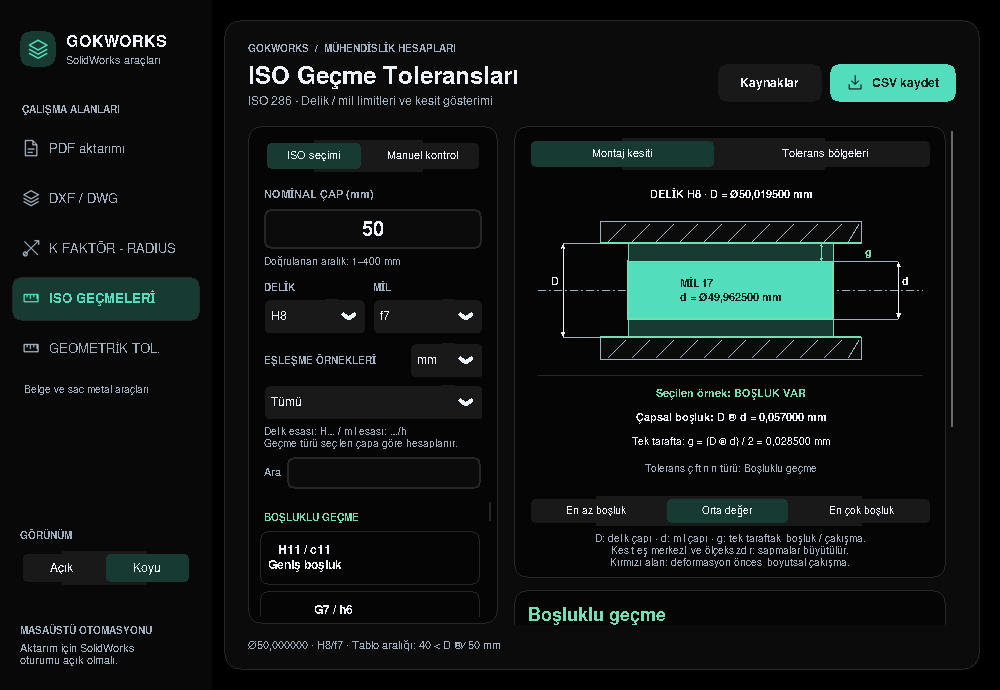
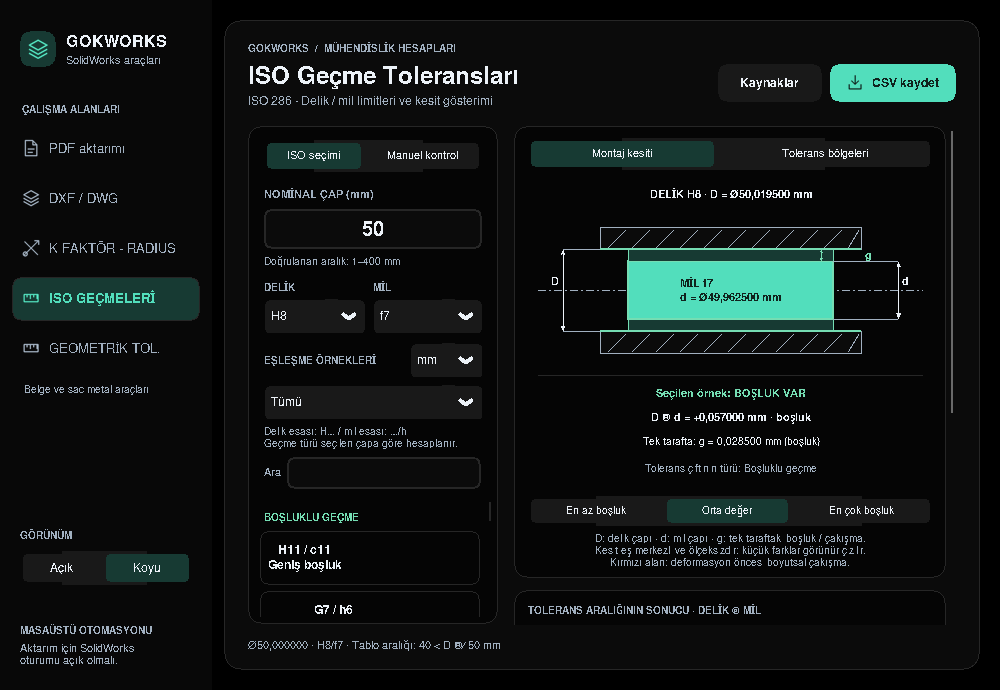
Keep positive ISO clearances visible and show signed differences

diff --git a/tests/test_iso_tolerance_audit.py b/tests/test_iso_tolerance_audit.py
@@ -1,0 +1,147 @@
+"""Independent interval arithmetic and positive/negative clearance GUI audit."""
+
+import csv
+from fractions import Fraction
+from itertools import product
+import json
+import os
+from pathlib import Path
+import unittest
+from unittest.mock import patch
+
+import test_export_window as fixtures
+from iso_fits import rules
+from iso_fits.manual import calculate_manual
+from iso_fits.window import SAMPLES
+
+
+class ToleranceArithmeticAuditTests(unittest.TestCase):
+    def test_every_iso_pair_at_boundaries_and_just_above_with_fraction_oracle(self):
+        table = json.loads((Path(__file__).parents[1]/'iso_fits/tables.json').read_text())
+        sizes = {Fraction(1), Fraction(400)}
+        for bound in table['bounds_mm']:
+            sizes.add(Fraction(bound))
+            if bound < 400:
+                sizes.add(Fraction(bound)+Fraction(1, 1000000))
+        for size, hole, shaft in product(sorted(sizes), table['holes'], table['shafts']):
+            index = sum(Fraction(bound) < size for bound in table['bounds_mm'])
+            hu, hl = table['classes'][hole][index]
+            su, sl = table['classes'][shaft][index]
+            D0, D1 = size+Fraction(hl, 1000000), size+Fraction(hu, 1000000)
+            d0, d1 = size+Fraction(sl, 1000000), size+Fraction(su, 1000000)
+            fit = rules.calculate(str(float(size)), hole, shaft)
+            expected = 'clearance' if D0 >= d1 else 'interference' if D1 <= d0 else 'transition'
+            self.assertEqual(fit.kind, expected, (size, hole, shaft))
+            self.assertEqual(Fraction(fit.minimum_clearance_nm, 1000000), D0-d1)
+            self.assertEqual(Fraction(fit.maximum_clearance_nm, 1000000), D1-d0)
+            for sample, pair in zip(SAMPLES, ((D0, d1), ((D0+D1)/2, (d0+d1)/2), (D1, d0))):
+                self.assertEqual(tuple(Fraction(str(v)) for v in fit.sample(sample)), pair)
+
+    def test_manual_interval_grid_with_signed_raw_input_oracle(self):
+        values = ('-0.05', '-0.02', '0', '0.02', '0.05')
+        for a, b, c, d in product(values, repeat=4):
+            if Fraction(a) > Fraction(b) or Fraction(c) > Fraction(d):
+                continue
+            fit = calculate_manual('50', a, b, c, d)
+            minimum, maximum = Fraction(a)-Fraction(d), Fraction(b)-Fraction(c)
+            expected = 'clearance' if minimum >= 0 else 'interference' if maximum <= 0 else 'transition'
+            self.assertEqual(fit.kind, expected, (a, b, c, d))
+            self.assertEqual(Fraction(fit.minimum_clearance_nm, 1000000), minimum)
+            self.assertEqual(Fraction(fit.maximum_clearance_nm, 1000000), maximum)
+        with self.assertRaises(ValueError):
+            calculate_manual('50', '0', '0.02%', '0', '0')
+
+
+@unittest.skipUnless(os.name == 'nt' or os.environ.get('DISPLAY'), 'GUI requires a display')
+class ToleranceGuiAuditTests(unittest.TestCase):
+    setUp = fixtures.WindowTests.setUp
+    close_app = fixtures.WindowTests.close_app
+
+    def manual(self, lower_hole, upper_hole, lower_shaft, upper_shaft):
+        self.app._switch_mode('iso_fits')
+        self.app.iso_state['method'].set('Manuel kontrol')
+        self.app._set_manual_inputs(list(zip(('hole_lower', 'hole_upper', 'shaft_lower', 'shaft_upper'),
+                                             (lower_hole, upper_hole, lower_shaft, upper_shaft))))
+        self.app.update()
+        return self.app.iso_widgets['canvas']
+
+    def text(self, tag):
+        canvas = self.app.iso_widgets['canvas']
+        return canvas.itemcget(canvas.find_withtag(tag)[0], 'text')
+
+    def test_positive_twenty_micron_clearance_never_disappears_with_common_offset(self):
+        coordinates = []
+        for hole, shaft in (('0.02', '0'), ('2.02', '2'), ('20.02', '20')):
+            canvas = self.manual(hole, hole, shaft, shaft)
+            self.assertEqual(self.app.iso_result.kind, 'clearance')
+            self.assertEqual(self.app.iso_widgets['kind'].cget('text'), 'Boşluklu geçme')
+            for sample in SAMPLES:
+                self.app.iso_state['sample'].set(sample)
+                self.assertIn('BOŞLUK VAR', self.text('sample_state'))
+                self.assertIn('D − d = +0,020000 mm', self.text('diametral_result'))
+                self.assertIn('g = 0,010000 mm (boşluk)', self.text('radial_result'))
+                self.assertEqual(len(canvas.find_withtag('clearance')), 2)
+                self.assertFalse(canvas.find_withtag('overlap'))
+                radial = canvas.coords(canvas.find_withtag('radial_dimension')[0])
+                self.assertGreaterEqual(radial[3]-radial[1], 6)
+            coordinates.append(canvas.coords(canvas.find_withtag('radial_dimension')[0])[1::2])
+        self.assertEqual(coordinates[0], coordinates[1])
+        self.assertEqual(coordinates[0], coordinates[2])
+
+    def test_twenty_micron_interference_has_negative_signed_difference(self):
+        canvas = self.manual('2', '2', '2.02', '2.02')
+        self.assertEqual(self.app.iso_widgets['kind'].cget('text'), 'Sıkı geçme')
+        for sample in SAMPLES:
+            self.app.iso_state['sample'].set(sample)
+            self.assertIn('SIKILIK VAR', self.text('sample_state'))
+            self.assertIn('D − d = -0,020000 mm', self.text('diametral_result'))
+            self.assertFalse(canvas.find_withtag('clearance'))
+            self.assertEqual(len(canvas.find_withtag('overlap')), 2)
+        self.assertIn('Cmin = -0,020000 mm', self.app.iso_widgets['explanation'].cget('text'))
+        self.assertIn('Cmax = -0,020000 mm', self.app.iso_widgets['explanation'].cget('text'))
+
+    def test_unilateral_example_section_card_csv_and_clipboard_agree(self):
+        self.manual('0', '+0,02', '-0,02', '0')
+        output = self.root/'audit.csv'
+        for sample, expected in zip(SAMPLES, ('+0,000000', '+0,020000', '+0,040000')):
+            self.app.iso_state['sample'].set(sample)
+            rows = dict(self.app._iso_report_rows())
+            self.assertEqual(rows['Geçme türü'], 'Boşluklu geçme')
+            self.assertEqual(rows['Örnek delik − mil (mm)'], expected)
+            self.app._copy_iso_result()
+            self.assertIn('Örnek delik − mil (mm): '+expected, self.app.clipboard_get())
+            with patch('iso_fits.window.filedialog.asksaveasfilename', return_value=str(output)):
+                self.app._save_iso_report()
+            with output.open(encoding='utf-8-sig', newline='') as stream:
+                csv_rows = dict(list(csv.reader(stream, delimiter=';'))[1:])
+            self.assertEqual(csv_rows, rows)
+        self.assertEqual(self.app.iso_widgets['minimum'].cget('text'), '+0,000000 mm')
+        self.assertEqual(self.app.iso_widgets['maximum'].cget('text'), '+0,040000 mm')
+
+    def test_nearest_transition_reference_cannot_replace_positive_actual_clearance(self):
+        self.manual('-.023', '-.023', '-.026', '-.026')
+        self.assertEqual(self.app.iso_widgets['kind'].cget('text'), 'Boşluklu geçme')
+        self.assertIn('BOŞLUK VAR', self.text('sample_state'))
+        text = self.app.iso_widgets['compatibility_text'].cget('text')
+        self.assertTrue(text.startswith('Girilen limitlerin sonucu: Boşluklu geçme.'))
+        self.assertIn('Referansın türü: Ara geçme', text)
+        self.assertIn('girilen ölçülerin türünden farklı', text)
+        self.app.iso_state['target'].set('Sıkı / pres')
+        self.assertEqual(self.app.iso_result.kind, 'clearance')
+        self.assertIn('uygun değil', self.app.iso_widgets['compatibility_title'].cget('text'))
+
+    def test_transition_positive_twenty_micron_sample_remains_a_positive_clearance(self):
+        canvas = self.manual('-0.02', '+0.02', '0', '0')
+        self.assertEqual(self.app.iso_widgets['kind'].cget('text'), 'Ara geçme')
+        for sample, value, state in zip(SAMPLES, ('-0,020000', '+0,000000', '+0,020000'),
+                                        ('SIKILIK VAR', 'SINIRDA TEMAS', 'BOŞLUK VAR')):
+            self.app.iso_state['sample'].set(sample)
+            self.assertIn(state, self.text('sample_state'))
+            self.assertIn('Ara geçme', self.text('fit_kind'))
+            self.assertEqual(dict(self.app._iso_report_rows())['Örnek delik − mil (mm)'], value)
+        self.assertEqual(len(canvas.find_withtag('clearance')), 2)
+        self.assertFalse(canvas.find_withtag('overlap'))
+
+
+if __name__ == '__main__':
+    unittest.main()

diff --git a/iso_fits/window.py b/iso_fits/window.py
@@ -187,21 +187,23 @@ class IsoFitsView:
         self.iso_widgets['sample'] = samples
         self.iso_widgets['section_help'] = self._label(diagram,
             'D: delik çapı · d: mil çapı · g: tek taraftaki boşluk / çakışma.\n'
-            'Kesit eş merkezli ve ölçeksizdir; sapmalar büyütülür.\n'
+            'Kesit eş merkezli ve ölçeksizdir; küçük farklar görünür çizilir.\n'
             'Kırmızı alan: deformasyon öncesi boyutsal çakışma.', 10, MUTED, wraplength=400)
         self.iso_widgets['section_help'].grid(row=3, column=0, padx=14, pady=(2, 10))
         result = self._iso_card(details)
         result.grid(row=1, column=0, sticky='ew', pady=(0, 12))
         result.grid_columnconfigure((0, 1), weight=1)
+        self._label(result, 'TOLERANS ARALIĞININ SONUCU · DELİK − MİL', 10, MUTED, True).grid(
+            row=0, column=0, columnspan=2, sticky='w', padx=14, pady=(12, 0))
         self.iso_widgets['kind'] = self._label(result, '', 18, bold=True)
-        self.iso_widgets['kind'].grid(row=0, column=0, columnspan=2, sticky='w', padx=14, pady=(12, 8))
+        self.iso_widgets['kind'].grid(row=1, column=0, columnspan=2, sticky='w', padx=14, pady=(6, 8))
         for column, key in enumerate(('minimum', 'maximum')):
             self.iso_widgets[key+'_title'] = self._label(result, '', 10, MUTED)
-            self.iso_widgets[key+'_title'].grid(row=1, column=column, sticky='w', padx=14)
+            self.iso_widgets[key+'_title'].grid(row=2, column=column, sticky='w', padx=14)
             self.iso_widgets[key] = self._label(result, '', 18, bold=True)
-            self.iso_widgets[key].grid(row=2, column=column, sticky='w', padx=14, pady=(2, 8))
+            self.iso_widgets[key].grid(row=3, column=column, sticky='w', padx=14, pady=(2, 8))
         self.iso_widgets['explanation'] = self._label(result, '', 11, MUTED, justify='left', anchor='w', wraplength=430)
-        self.iso_widgets['explanation'].grid(row=3, column=0, columnspan=2, sticky='ew', padx=14, pady=(0, 12))
+        self.iso_widgets['explanation'].grid(row=4, column=0, columnspan=2, sticky='ew', padx=14, pady=(0, 12))
         assessment = self._iso_card(details)
         assessment.grid(row=2, column=0, sticky='ew', pady=(0, 12))
         assessment.grid_columnconfigure(0, weight=1)
@@ -442,7 +444,10 @@ class IsoFitsView:
             configure_changed(self.iso_widgets['iso_comparison'], text=(
                 'DELİK · '+self._iso_match_text(fit.hole, 'hole')+'\n\nMİL · '+self._iso_match_text(fit.shaft, 'shaft')+
                 '\n\nKarşılaştırma mevcut 11 delik / 18 mil sınıfı içindedir. Yakınlık, alt/üst sapma farklarının mutlak toplamıdır. Kullanım adları öneridir; yağlama kararı için yüzey, malzeme ve çalışma koşulları gerekir.'))
-        configure_changed(self.iso_widgets['explanation'], text=explanation)
+        signed_limits = (f'Cmin = {format_deviation(fit.minimum_clearance_nm, unit)} · '
+                         f'Cmax = {format_deviation(fit.maximum_clearance_nm, unit)}\n'
+                         'C = delik − mil: (+) boşluk, (−) sıkılık, 0 temas.\n')
+        configure_changed(self.iso_widgets['explanation'], text=signed_limits+explanation)
         for key, band in [('hole', fit.hole), ('shaft', fit.shaft)]:
             configure_changed(self.iso_widgets[key+'_limits'], text=f'{format_mm(band.minimum_mm)} / {format_mm(band.maximum_mm)} mm')
             configure_changed(self.iso_widgets[key+'_deviations'], text=f'{format_deviation(band.lower_nm, unit)} / {format_deviation(band.upper_nm, unit)}')
@@ -505,6 +510,14 @@ class IsoFitsView:
                 ('Minimum delik − mil (mm)', format_deviation(fit.minimum_clearance_nm).split(' ')[0]),
                 ('Maksimum delik − mil (mm)', format_deviation(fit.maximum_clearance_nm).split(' ')[0]),
                 ('Kapsam', '1–400 mm; seçili doğrulanmış sınıflar; şematik kesit; montaj kuvveti hesabı yok')]
+        sample = self.iso_state['sample'].get()
+        hole, shaft = fit.sample(sample)
+        difference = hole-shaft
+        rows.extend([('Kesit örneği', sample), ('Örnek delik çapı (mm)', format_mm(hole)),
+                     ('Örnek mil çapı (mm)', format_mm(shaft)),
+                     ('Örnek delik − mil (mm)', format_mm(difference, signed=True)),
+                     ('Örnek boyutların ilişkisi', 'Boşluk' if difference > 0 else 'Sıkılık' if difference < 0 else 'Temas'),
+                     ('Örnek tek taraflı fark (mm)', format_mm(abs(difference)/2))])
         if self.iso_state['method'].get() == 'Manuel kontrol':
             rows.extend([('Delik ISO kontrolü', self._iso_match_text(fit.hole, 'hole')),
                          ('Mil ISO kontrolü', self._iso_match_text(fit.shaft, 'shaft')),
@@ -519,7 +532,8 @@ class IsoFitsView:
         result = compatibility(fit, self.iso_state['target'].get())
         pair = closest_pair(fit)
         heading = 'Tam ISO çift eşleşmesi' if pair.distance_nm == 0 else 'En yakın ISO çift (yalnız referans)'
-        text = (result.explanation+f'\n\n{heading}: {pair.code} · {CLASSIFICATION[pair.fit.kind]}. '
+        text = (f'Girilen limitlerin sonucu: {CLASSIFICATION[fit.kind]}.\n'+result.explanation+
+                f'\n\n{heading}: {pair.code}. Referansın türü: {CLASSIFICATION[pair.fit.kind]}. '
                 f'Toplam limit farkı: {format_deviation(pair.distance_nm)}. '
                 f'En büyük tek limit farkı: {format_deviation(pair.worst_limit_difference_nm)}.')
         for band, feature, label in ((fit.hole, 'hole', 'Delik'), (fit.shaft, 'shaft', 'Mil')):

diff --git a/iso_fits/diagram.py b/iso_fits/diagram.py
@@ -2,7 +2,7 @@
 
 from gui.theme import (INPUT, PANEL, TEXT, MUTED, BORDER, ACCENT, ACCENT_BG,
                        GREEN, AMBER, RED, UI_FONT)
-from iso_fits.rules import CLASSIFICATION, format_mm, format_deviation
+from iso_fits.rules import CLASSIFICATION, format_mm, format_deviation, mm
 
 
 def draw(canvas, fit, view, sample, appearance, scale):
@@ -24,14 +24,16 @@ def draw(canvas, fit, view, sample, appearance, scale):
         low -= padding; high += padding
         top, bottom = 28*scale, height-45*scale
         y = lambda value: top+(high-value)/(high-low)*(bottom-top)
-        canvas.create_line(30*scale, y(0), width-22*scale, y(0), fill=color(MUTED), dash=(5, 4))
-        text(32*scale, y(0)-9*scale, '0 · nominal çap', fill=color(MUTED), anchor='w')
+        canvas.create_line(60*scale, y(0), width-22*scale, y(0), fill=color(MUTED), dash=(5, 4))
+        text(12*scale, y(0), '0 µm', fill=color(MUTED), anchor='w')
+        text(width/2, 10*scale, 'Sapmalar (µm) · 0 = nominal çap', fill=color(MUTED))
         for band, fraction, paint, role in [(fit.hole, .39, ACCENT, 'DELİK'), (fit.shaft, .74, MUTED, 'MİL')]:
             x = width*fraction; half = min(38*scale, width*.085)
             canvas.create_rectangle(x-half, y(band.upper_nm), x+half, y(band.lower_nm),
-                                    fill=color(paint), outline=color(paint))
+                                    fill=color(paint), outline=color(paint), tags='hole_band' if role == 'DELİK' else 'shaft_band')
             text(x, y(band.upper_nm)-10*scale, format_deviation(band.upper_nm, 'µm'))
-            text(x, y(band.lower_nm)+10*scale, format_deviation(band.lower_nm, 'µm'))
+            if band.lower_nm != band.upper_nm:
+                text(x, y(band.lower_nm)+10*scale, format_deviation(band.lower_nm, 'µm'))
             text(x, height-15*scale, f'{role} · {band.code}', font=bold)
         return
     _draw_section(canvas, fit, sample, appearance, scale, color)
@@ -48,15 +50,14 @@ def _draw_section(canvas, fit, sample, appearance, scale, color):
                            font=kw.pop('font', font), **kw)
     hole, shaft = fit.sample(sample)
     difference = hole-shaft
-    hole_dev = float(hole-fit.hole.nominal_mm)
-    shaft_dev = float(shaft-fit.shaft.nominal_mm)
-    # Keep the magnification fixed while switching between sample sizes.
-    maximum = max(*(abs(value)/1_000_000 for band in (fit.hole, fit.shaft)
-                    for value in (band.lower_nm, band.upper_nm)), .001)
+    # This is an explicitly unscaled illustration. A nonzero radial gap must
+    # exceed the strokes, even for tiny differences or a large common offset.
+    # Use the signed D-d relation, not deviations from the nominal diameter.
+    maximum = mm(max(abs(fit.minimum_clearance_nm), abs(fit.maximum_clearance_nm)))
+    radial_pixels = (6+10*float(abs(difference)/maximum))*scale if difference else 0
     nominal_height = 82*scale
-    exaggeration = nominal_height*.4/maximum
-    hole_height = nominal_height+hole_dev*exaggeration
-    shaft_height = nominal_height+shaft_dev*exaggeration
+    hole_height = nominal_height
+    shaft_height = nominal_height+2*radial_pixels*(-1 if difference > 0 else 1)
     center = 112*scale
     left, right = width*.18, width*.82
     bore_top, bore_bottom = center-hole_height/2, center+hole_height/2
@@ -82,7 +83,7 @@ def _draw_section(canvas, fit, sample, appearance, scale, color):
         # rather than a physically assembled, undeformed interference fit.
         for y0, y1 in [(shaft_top, bore_top), (bore_bottom, shaft_bottom)]:
             canvas.create_rectangle(shaft_left, y0, shaft_right, y1, fill=color(RED),
-                                    outline=color(RED), stipple='gray50', tags='overlap')
+                                    outline=color(RED), tags='overlap')
     canvas.create_line(left, bore_top, right, bore_top, fill=edge, width=2)
     canvas.create_line(left, bore_bottom, right, bore_bottom, fill=edge, width=2)
 
@@ -109,10 +110,10 @@ def _draw_section(canvas, fit, sample, appearance, scale, color):
     state = 'BOŞLUK VAR' if difference > 0 else 'SIKILIK VAR' if difference < 0 else 'SINIRDA TEMAS'
     text(width/2, 215*scale, f'Seçilen örnek: {state}', fill=edge, font=bold, tags='sample_state')
     if difference:
-        label, formula = ('Çapsal boşluk', 'D − d') if difference > 0 else ('Çapsal sıkılık', 'd − D')
-        text(width/2, 239*scale, f'{label}: {formula} = {format_mm(abs(difference))} mm',
+        relation = 'boşluk' if difference > 0 else 'sıkılık'
+        text(width/2, 239*scale, f'D − d = {format_mm(difference, signed=True)} mm · {relation}',
              font=bold, width=width-24*scale, tags='diametral_result')
-        text(width/2, 263*scale, f'Tek tarafta: g = ({formula}) / 2 = {format_mm(abs(difference)/2)} mm',
+        text(width/2, 263*scale, f'Tek tarafta: g = {format_mm(abs(difference)/2)} mm ({relation})',
              width=width-24*scale, tags='radial_result')
     else:
         text(width/2, 239*scale, f'D = d = {format_mm(hole)} mm', font=bold, tags='diametral_result')

diff --git a/tests/test_iso_section.py b/tests/test_iso_section.py
@@ -54,7 +54,7 @@ class IsoSectionTests(unittest.TestCase):
 
     def test_transition_endpoints_show_different_samples_with_same_overall_kind(self):
         canvas = self.section('H7', 'k6')
-        ratios = []
+        gaps = []
         for sample, state, region in [(SAMPLES[0], 'SIKILIK VAR', 'overlap'),
                                       (SAMPLES[2], 'BOŞLUK VAR', 'clearance')]:
             self.app.iso_state['sample'].set(sample)
@@ -66,8 +66,9 @@ class IsoSectionTests(unittest.TestCase):
             hole, shaft = self.app.iso_result.sample(sample)
             self.assertIn(format_mm(abs(hole-shaft)), self.text('diametral_result'))
             radial = canvas.coords(canvas.find_withtag('radial_dimension')[0])
-            ratios.append((radial[3]-radial[1])/float(abs(hole-shaft)))
-        self.assertAlmostEqual(*ratios)  # Magnification stays fixed across samples.
+            gaps.append(radial[3]-radial[1])
+        self.assertLess(gaps[0], gaps[1])  # Larger difference has a larger visible region.
+        self.assertGreater(gaps[0], 6)
 
     def test_zero_difference_is_contact_without_gap_or_overlap_and_recovers(self):
         canvas = self.section('H7', 'h6')
@@ -94,7 +95,7 @@ class IsoSectionTests(unittest.TestCase):
         self.assertIn('0,0000005', self.text('radial_result'))
         self.app.iso_state['shaft_upper'].set('0,000002')
         self.app.iso_state['shaft_lower'].set('0,000002')
-        self.assertIn('d − D', self.text('diametral_result'))
+        self.assertIn('D − d = -0,000001', self.text('diametral_result'))
         self.assertIn('0,0000005', self.text('radial_result'))
         self.assertEqual(len(canvas.find_withtag('overlap')), 2)
         self.app.iso_state['diameter'].set('invalid')

diff --git a/docs/iso-fits.md b/docs/iso-fits.md
@@ -4,13 +4,17 @@ Yan menüde **ISO GEÇMELERİ** ekranı bulunur. Nominal çapı yazın, delik ve
 
 Delik/mil alt ve üst ölçüleri, EI/ES ve ei/es sapmaları, boşluk veya sıkılık sınırları gösterilir. **mm / µm** seçimi sapma ve geçme sonuçlarının birimini değiştirir; nominal çap ve parça ölçüleri mm olarak kalır. **CSV kaydet** UTF-8 BOM, noktalı virgül ve ondalık virgülle Excel'e uygun rapor oluşturur. **Sonucu kopyala** bütün sayısal sonuçları panoya verir. Tema ve seçimler yeniden açılışta korunur.
 
-**Montaj kesiti** şematiktir; sapmalar görünürlük için büyütülür. Üç örnek ölçü arasında büyütme oranı sabittir. **Tolerans bölgeleri** gerçek sapma değerlerine göre doğrusal eksen kullanır. *Orta değer* yalnızca limitlerin ortasıdır; üretimin olasılık dağılımını temsil etmez. Arama ve Ctrl+F yaygın eşleşmeleri bulur. Küçük pencerede iki liste kaydırılabilir.
+**Montaj kesiti** ölçeksizdir; sıfırdan farklı boşluk ve çakışmalar görünür çizilir. Küçük farkların çizgi kalınlığında kaybolmaması için çizimde görünürlük alt sınırı vardır; kesitteki piksel genişliğinden ölçü alınmaz. **Tolerans bölgeleri** gerçek sapma değerlerine göre doğrusal eksen kullanır. *Orta değer* yalnızca limitlerin ortasıdır; üretimin olasılık dağılımını temsil etmez. Arama ve Ctrl+F yaygın eşleşmeleri bulur. Küçük pencerede iki liste kaydırılabilir.
 
 Kesitte taralı gövde **deliği**, yeşil parça **mili** gösterir. **D** oku delik çapını, **d** oku mil çapını tam olarak boyutlandırır. Yeşil boşluk alanları `D > d`, kırmızı çakışma alanları `d > D` durumudur. Kırmızı alan, deformasyon öncesi boyutsal çakışmadır; montaj sonrası elastik şekli göstermez. `D = d` olduğunda **Sınırda temas** yazılır; boşluk veya çakışma alanı çizilmez.
 
 **Çapsal boşluk** `D − d`, **çapsal sıkılık** `d − D` olarak hesaplanır. **g** oku üstte tek tarafı gösterir: eş merkezli kesitte boşluğun veya çakışmanın radyal büyüklüğü `|D − d| / 2`'dir. Bu, montaj kuvveti hesabı değildir. Çapsal ve tek taraflı değerler ayrı yazılır; raporlanan sayılar çizim büyütmesinden etkilenmez. Örneğin Ø50 H8/f7 orta değerinde D=50,019500 mm ve d=49,962500 mm: çapsal boşluk **0,057000 mm**, tek tarafta **0,028500 mm**.
 
 **Seçilen örnek** ile **tolerans çiftinin türü** ayrı gösterilir. H7/k6 bir ara geçmedir: en az boşluk seçiminde sıkılık, en çok boşluk seçiminde boşluk gösterilebilir. Bu, çiftin ara geçme sınıfını değiştirmez. En az boşluk `Dmin/dmax`, en çok boşluk `Dmax/dmin`, orta değer ise her iki limit bandının ortasıdır. Kesit ve tolerans bölgeleri bağımsız yükseklik kullanır; küçük pencerede sağ alan kaydırılabilir.
+
+Kesit sonucu **işaretli D − d** ile yazılır: **+0,020000 mm boşluk**, **−0,020000 mm sıkılık**, **0 temas**. Tek taraftaki g değeri mutlak büyüklüktür. Ana sonuç kartı tolerans aralığının türünü ve işaretli Cmin/Cmax'ı; kesit yalnız seçilen örneğin ölçülerini gösterir. CSV/pano her ikisini ve örnek D/d ölçülerini ayrı kaydeder. En yakın ISO referansının türü, girilen limitlerin sonucu yerine kullanılmaz.
+
+Son yeniden kontrolde 9.108 ISO çiftinin sınır/sınır üstü çap hesabı ve 225 manuel aralık bağımsız `Fraction` hesabıyla uyuştu. Pinlenmiş GitHub kaynaklarına karşı 3.217 sayısal karşılaştırma tekrar çalıştırıldı; aşağıda belgelenen iki F8 kaynak farkı dışında beklenmeyen fark yoktur. 50,020/50,000 mm, 52,020/52,000 mm ve 70,020/70,000 mm çiftleri aynı +0,020 mm boşluğu verir; tümünde görünür boşluk ve +0,010 mm tek taraflı fark sınanır. Önceki nominal sapmaya bağlı çizim, son örnekte açıklığı 0,016 piksele düşürüyordu; bu yaklaşım kaldırıldı. Ters ölçü çifti −0,020 mm sıkılık verir. Bu yeniden kontrol, kullanıcının tam girişleri bildirilmediğinden kendi hata örneğinin birebir doğrulandığı anlamına gelmez.
 
 
 ## Delik esaslı / mil esaslı örnekler

diff --git a/README.md b/README.md
@@ -114,7 +114,7 @@ Linux bulut ortamındaki sanal ekranla:
 DISPLAY=:99 APPDATA=/workspace/.cloud-setup/user .venv/bin/python -m unittest discover -s tests -v
 ```
 
-Son kapsamlı kontrolde **320 test geçti**; 122 gerçek GUI testi dahildir. [Son test çıktısı](docs/test-results/latest-tests.log), [güncel K/R, tek biçim ve menü akıcılığı](docs/gui-design.md#güncel-kr-alanı-ve-menü-geçişleri). Testler; COM çağrılarını temsil eden test nesneleriyle PDF sayfaları, seçenek bitleri, belge yaşam döngüsü, dosya koruma, kısmi başarısızlık, durdurma, montaj adetleri, konfigürasyon eşleştirme, kalınlık ve dosya adlarını; gerçek Tk arayüzüyle tarama, tercihler, rapor, küçük pencere, boş liste yönlendirmesi ve işlem sırasında kapanışı sınar. Tek biçim DXF/DWG üretimi, eski ayarın dönüşümü, hızlı menü geçişleri, çizim önbelleği, boşta sayfa ön yükleme ve 4000 dosyalık liste hazırlanırken Durdur erişimi ayrıca sınandı. 10.000 satırlık sonuç listesinde toplu filtreleme, seçim/veri korunması ve canlı sonuçların sırası kontrol edildi. ISO kesitinde çap okları, çapsal/tek taraflı fark, sıfır temas ve ara geçmenin farklı örnekleri doğrulandı. [Yeni kesit görünümü](docs/screenshots/iso-section-clearance-dark.png). DXF okuyucu dört gerçek R12/R2018 ASCII/ikili örnek ve bozuk dosyalarla çalıştırılır. Örnekler ezdxf ile üretilmiştir, SolidWorks çıktısı değildir. Ayarlar, bağlantı ve program giriş noktası da test edilir. Ekran olmayan Linux oturumunda arayüz testleri atlanır. Sanal ekranın başlatılması bulut ortamının kayıtlı başlangıç talimatlarında bulunur.
+Son kapsamlı kontrolde **327 test geçti**; 127 gerçek GUI testi dahildir. [Son test çıktısı](docs/test-results/latest-tests.log), [güncel K/R, tek biçim ve menü akıcılığı](docs/gui-design.md#güncel-kr-alanı-ve-menü-geçişleri). Testler; COM çağrılarını temsil eden test nesneleriyle PDF sayfaları, seçenek bitleri, belge yaşam döngüsü, dosya koruma, kısmi başarısızlık, durdurma, montaj adetleri, konfigürasyon eşleştirme, kalınlık ve dosya adlarını; gerçek Tk arayüzüyle tarama, tercihler, rapor, küçük pencere, boş liste yönlendirmesi ve işlem sırasında kapanışı sınar. Tek biçim DXF/DWG üretimi, eski ayarın dönüşümü, hızlı menü geçişleri, çizim önbelleği, boşta sayfa ön yükleme ve 4000 dosyalık liste hazırlanırken Durdur erişimi ayrıca sınandı. 10.000 satırlık sonuç listesinde toplu filtreleme, seçim/veri korunması ve canlı sonuçların sırası kontrol edildi. ISO kesitinde çap okları, çapsal/tek taraflı fark, sıfır temas ve ara geçmenin farklı örnekleri doğrulandı. [Yeni kesit görünümü](docs/screenshots/iso-section-clearance-dark.png). DXF okuyucu dört gerçek R12/R2018 ASCII/ikili örnek ve bozuk dosyalarla çalıştırılır. Örnekler ezdxf ile üretilmiştir, SolidWorks çıktısı değildir. Ayarlar, bağlantı ve program giriş noktası da test edilir. Ekran olmayan Linux oturumunda arayüz testleri atlanır. Sanal ekranın başlatılması bulut ortamının kayıtlı başlangıç talimatlarında bulunur.
 
 Sonuçlar, test kapsamı, bulunan sorunlar ve GitHub kıyaslaması [tüm programın doğrulama raporunda](docs/program-verification.md) kayıtlıdır. DXF/DWG referanslarının ayrıntıları ve geçmiş çalışma bildirimleri için [DXF/DWG doğrulama raporuna](docs/dxf-dwg-verification.md) bakın.
 
